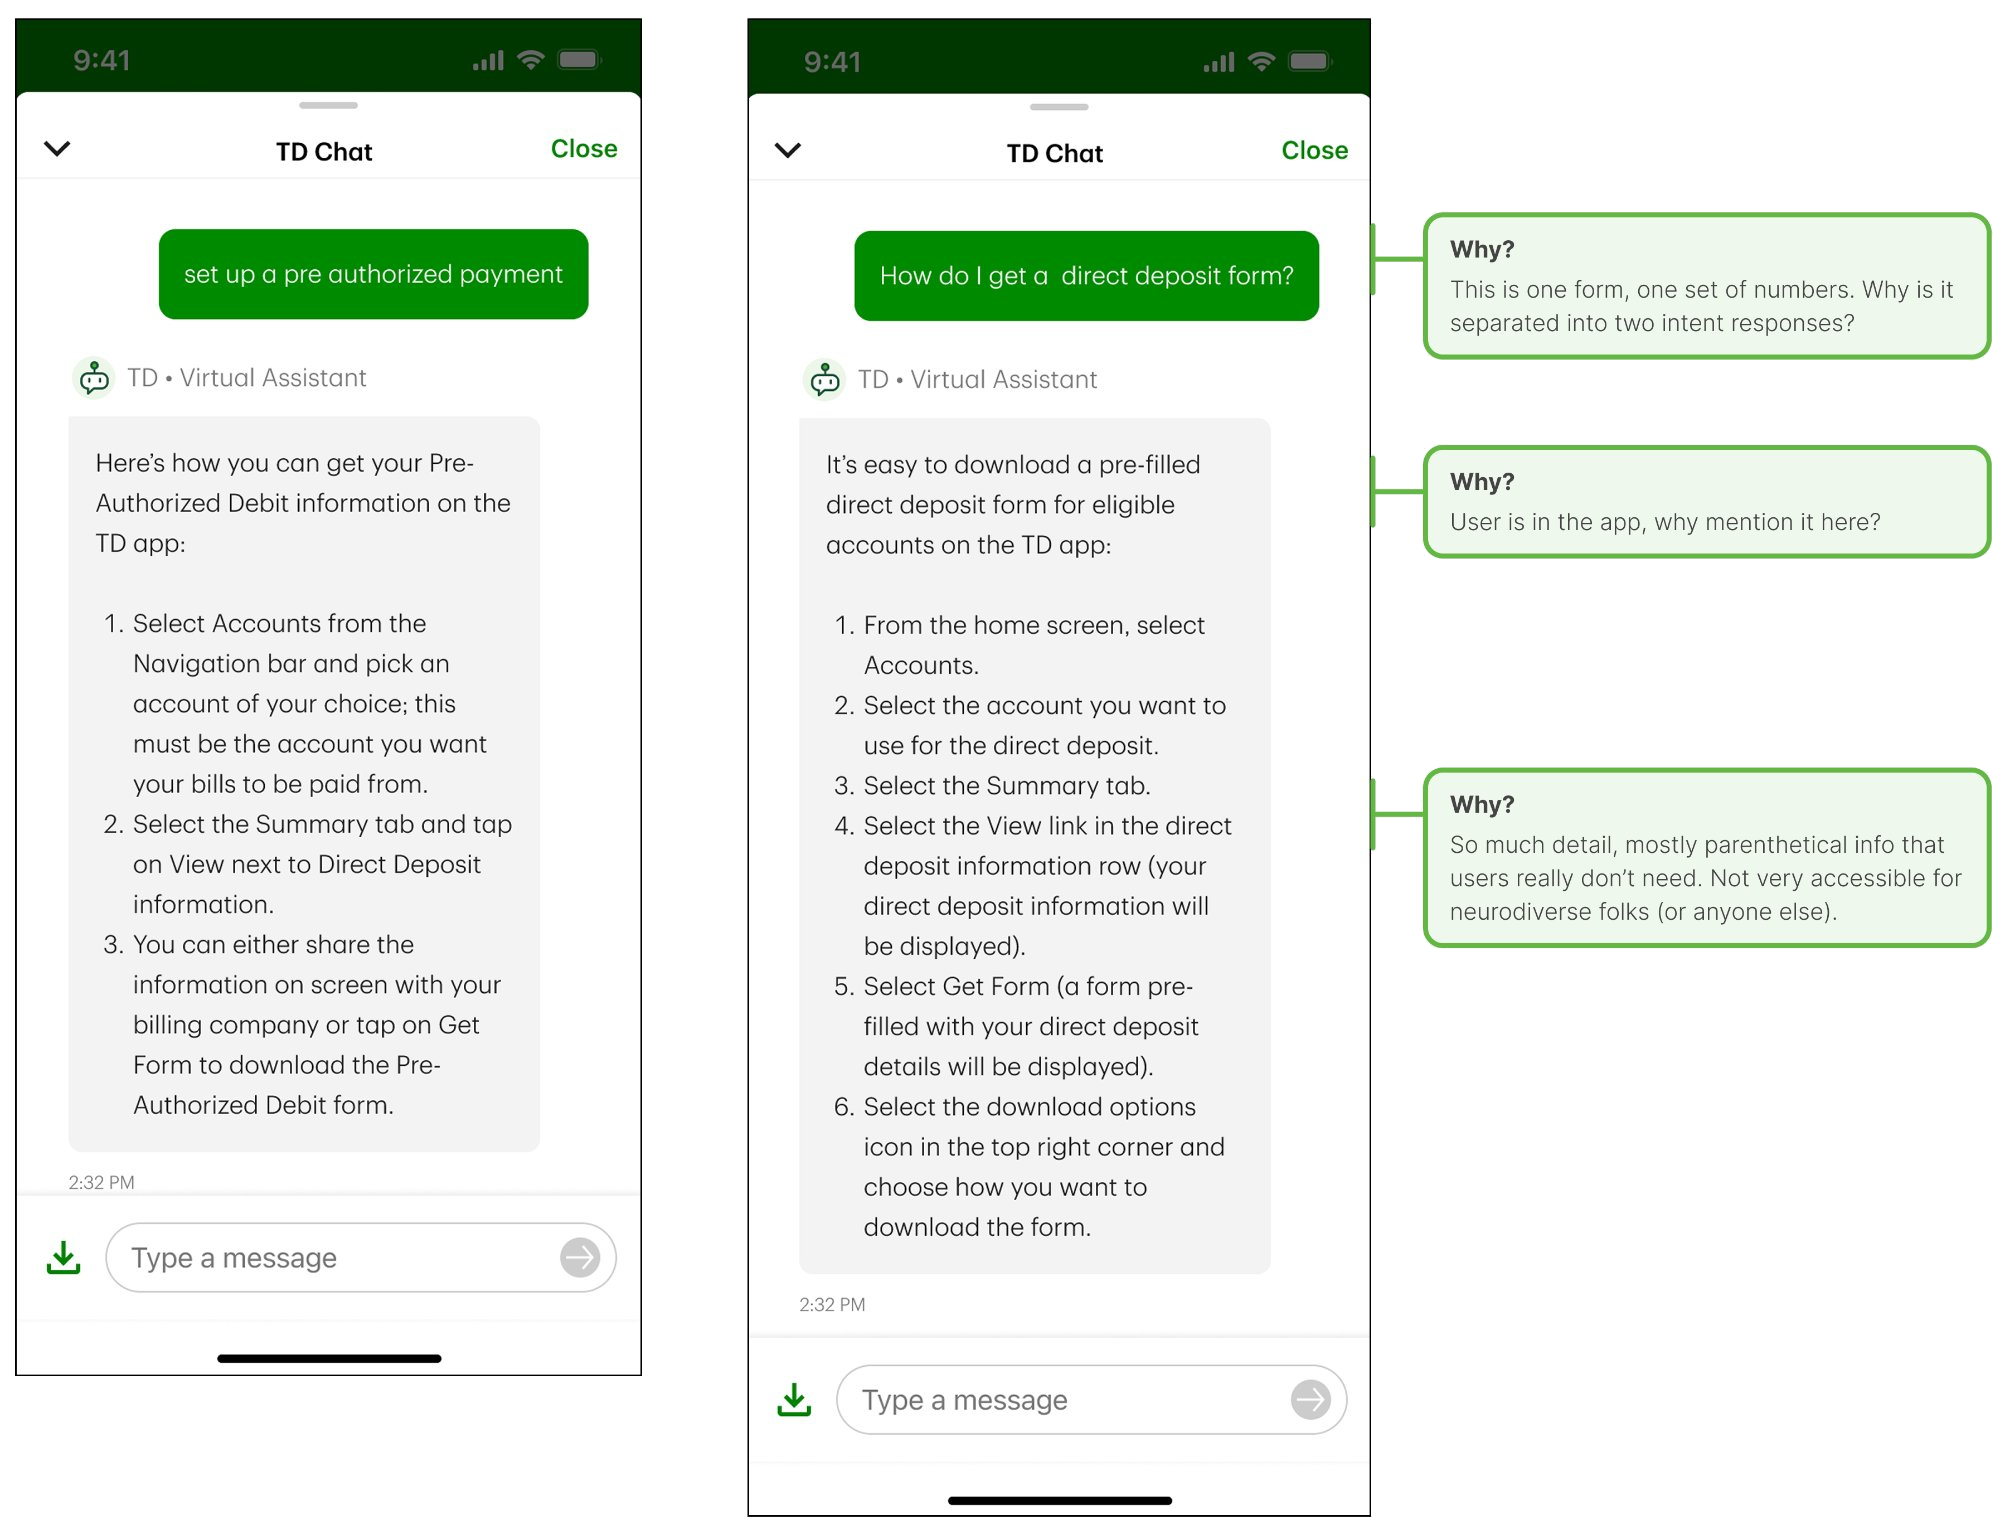
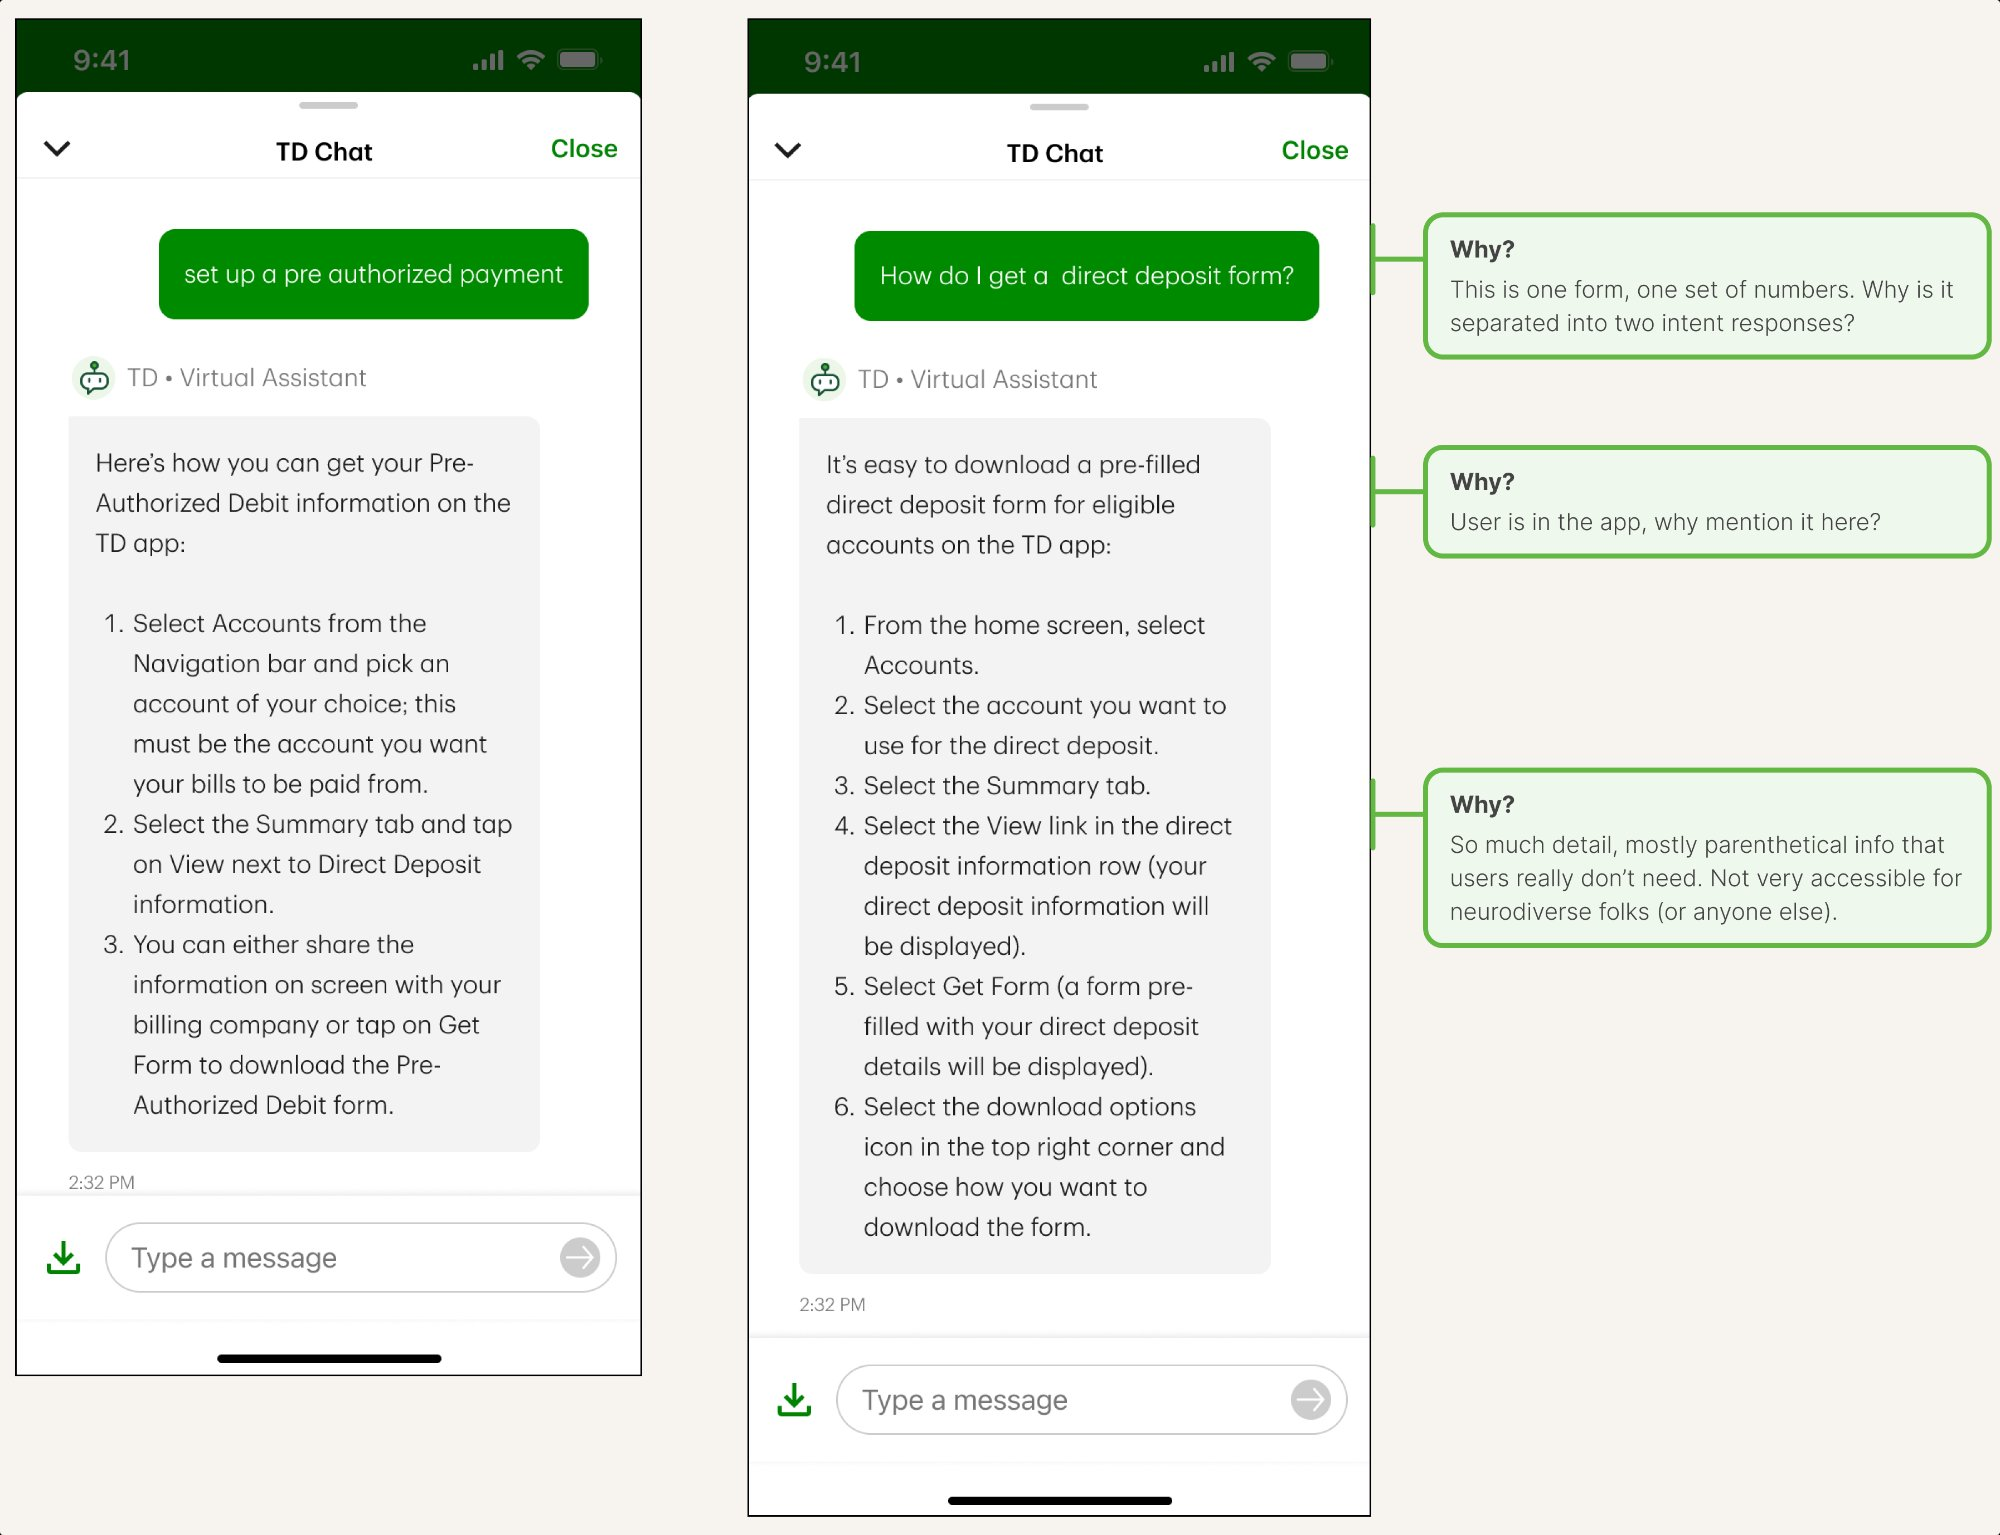
changed background of images to match site
#F7F3EE is site colour

diff --git a/index.html b/index.html
@@ -127,7 +127,7 @@
     .cs-section p { font-size: 0.97rem; color: var(--text-soft); line-height: 1.85; margin-bottom: 1rem; }
     .cs-section p strong { color: var(--text); font-weight: 500; }
     .cs-pullquote { border-left: 3px solid var(--accent); padding: 1rem 1.5rem; margin: 1.5rem 0; background: var(--accent-light); font-size: 0.92rem; color: var(--accent-hover); line-height: 1.75; font-style: italic; }
-    .cs-img { width: 100%; max-width: 480px; border: none; margin: 1.5rem 0; display: block; background: #F5F5F5; padding: 1.5rem; }
+    .cs-img { width: 100%; max-width: 480px; border: 1px solid var(--stone); margin: 1.5rem 0; display: block; }
     .cs-img-caption { font-size: 0.75rem; color: var(--mid); margin-top: -1rem; margin-bottom: 1.5rem; }
     .cs-img-pair { display: grid; grid-template-columns: 1fr 1fr; gap: 1rem; margin: 1.5rem 0; }
     .cs-outcome-box { background: var(--cream); border: 1px solid var(--stone); padding: 2rem; margin-top: 2rem; }
@@ -167,6 +167,7 @@
     /* BLURRED IMAGE */
     .cs-blurred-container { position: relative; margin: 1.5rem 0; }
     .cs-img-blurred { margin: 0; }
+    .cs-img-single { max-width: 360px; }
     .cs-blur-overlay { position: absolute; inset: 0; display: flex; align-items: center; justify-content: center; }
     .cs-blur-badge { background: white; border: 1px solid var(--stone); box-shadow: 0 4px 24px rgba(44,36,32,0.12); padding: 1.25rem 2rem; text-align: center; max-width: 320px; }
     .cs-blur-icon { display: block; font-size: 1.5rem; color: var(--accent); margin-bottom: 0.5rem; }
@@ -420,7 +421,7 @@
       <div class="cs-section">
         <h2>Stage 2 — First update</h2>
         <p>The team didn't have scope to add new APIs at first, so I combined the two overlapping intent responses and significantly cut the copy. Three steps instead of six. Bold formatting on the key words users need to scan for. A clearer, more direct opening that told users what they could do, not how the system worked.</p>
-        <img src="images/clari-stage2.png" class="cs-img" alt="First update to Clari direct deposit flow with design annotations" />
+        <img src="images/clari-stage2.png" class="cs-img cs-img-single" alt="First update to Clari direct deposit flow with design annotations" />
         <p class="cs-img-caption">First update — one response, scannable steps, annotated content decisions. Far less cognitive load than the original, and more accessible for neurodiverse users.</p>
         <div class="cs-pullquote">I advocated to use the copy update as a jumping-off point to improve the full experience — not just update the page names and move on.</div>
       </div>
